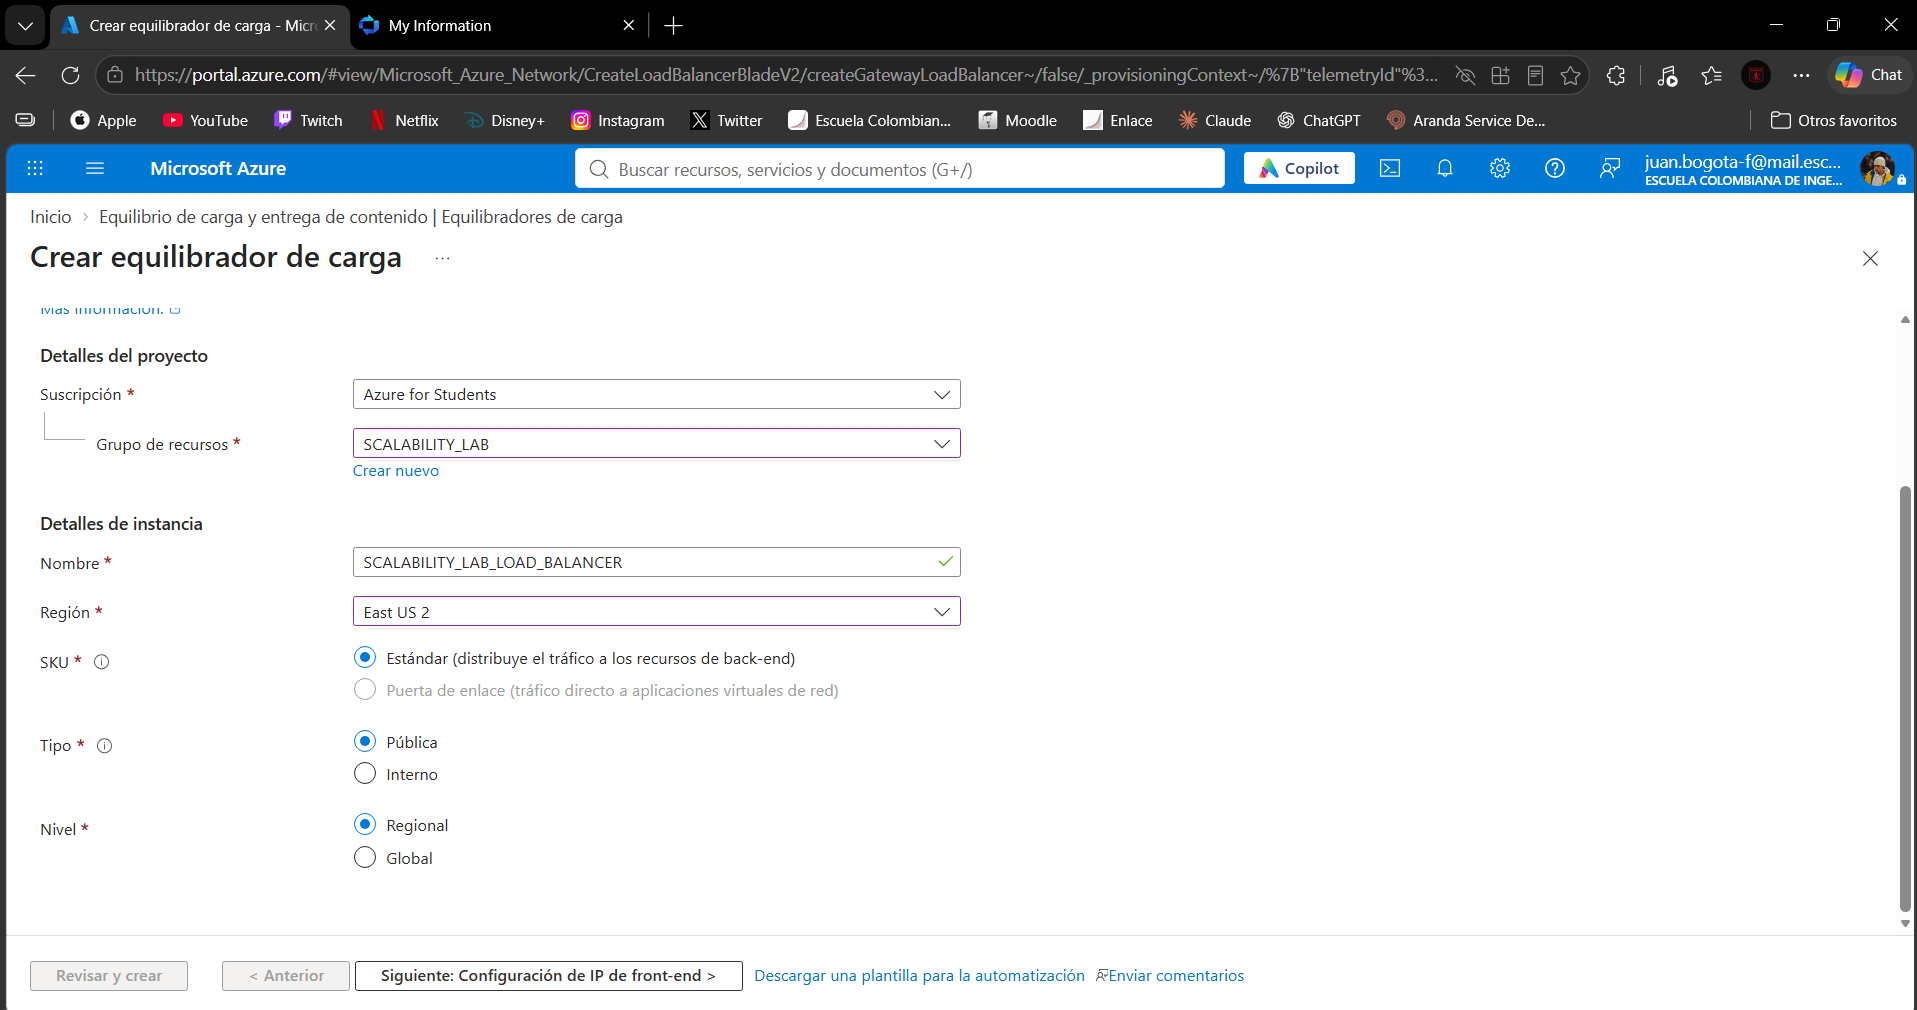
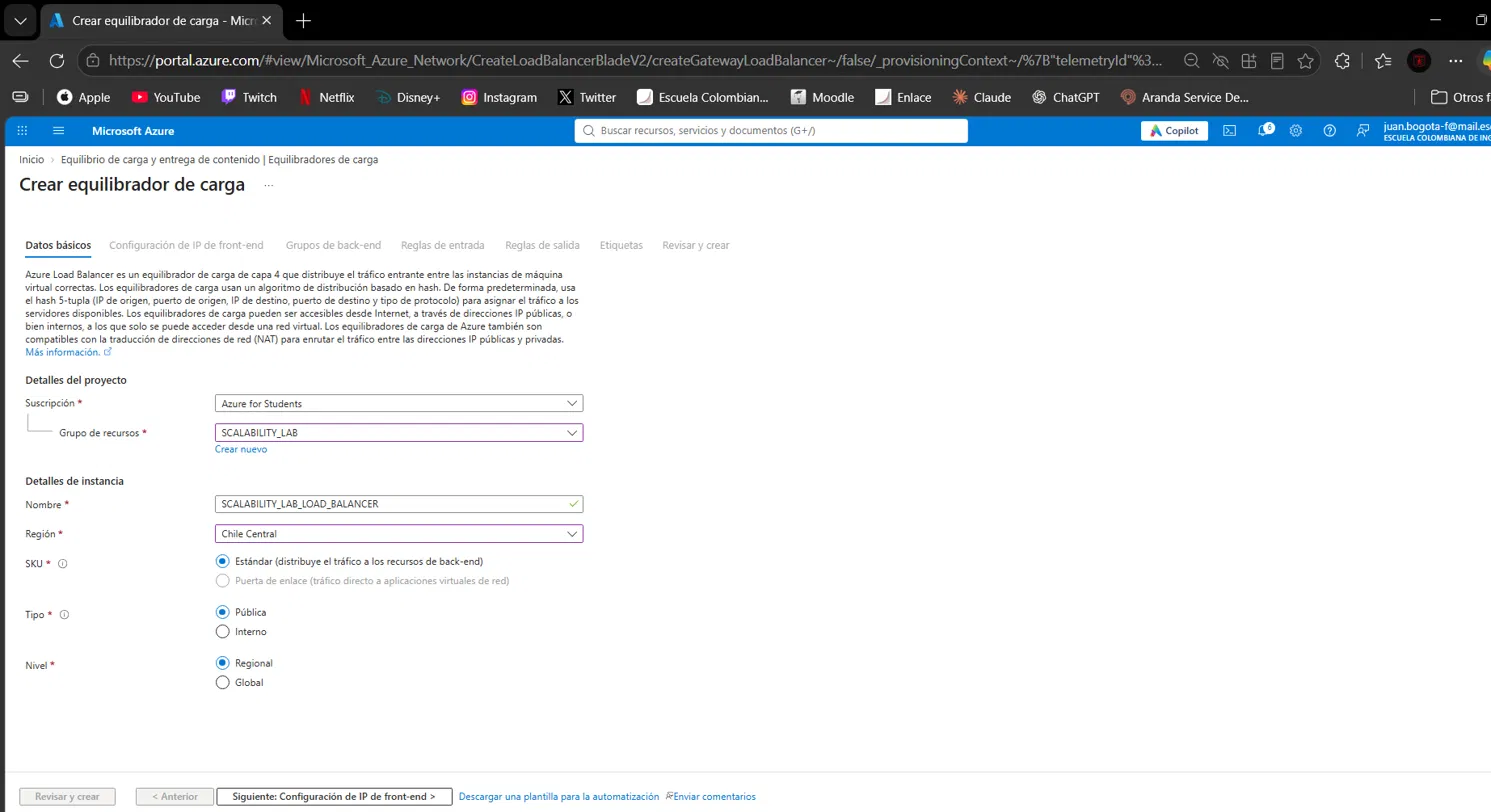
Parte 2: se crean el balanceador de carga, las VMs y se documenta la Actividad 1 (región Chile Central)

diff --git a/README.md b/README.md
@@ -129,7 +129,7 @@ Antes de continuar puede eliminar el grupo de recursos anterior para evitar gast
 
 Esta parte se hizo desde el portal de Azure, siguiendo las imágenes del enunciado. El portal de hoy no es igual al de 2019, así que donde hubo diferencias las dejamos anotadas.
 
-**Región.** El enunciado usa North Europe, pero la suscripción de estudiante tiene una política que bloquea esa región. Al consultar la política salieron las únicas regiones permitidas: centralus, brazilsouth, mexicocentral, eastus2 y chilecentral. Se escogió East US 2, que tiene zonas de disponibilidad, y todos los recursos de esta parte quedaron ahí. El grupo de recursos SCALABILITY_LAB quedó en North Europe, lo cual no afecta porque los recursos pueden estar en otra región.
+**Región.** Chile Central. North Europe está bloqueada por una política de la suscripción de estudiante. Las regiones permitidas son centralus, brazilsouth, mexicocentral, eastus2 y chilecentral, y en todas el límite es de 6 vCPU por región. En East US 2 la cuota de la familia Dsv7 era 0 y los tamaños de 1 vCPU no estaban disponibles, en Brasil Sur y México pasaba lo mismo con los de 1 vCPU. En Chile Central sí hay una VM de 1 vCPU disponible en las 3 zonas, y con ella caben las 4 máquinas que pide el laboratorio.
 
 **1. Balanceador de carga.** Se creó SCALABILITY_LAB_LOAD_BALANCER, público, SKU Estándar y nivel Regional. En el portal actual la IP pública no se crea aparte: se crea dentro del paso "Configuración de IP de front-end". Allí se dejó una configuración llamada LoadBalancerFrontEnd con una IP nueva, SCALABILITY_LAB_LOAD_BALANCER_IP, estática y con redundancia de zona. La IP pública quedó en 132.196.198.201.
 
